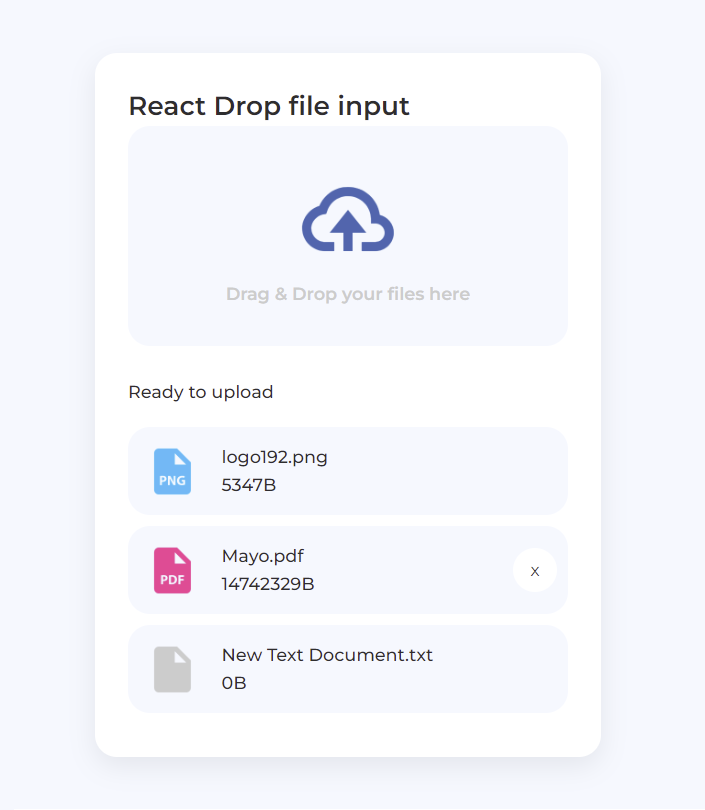
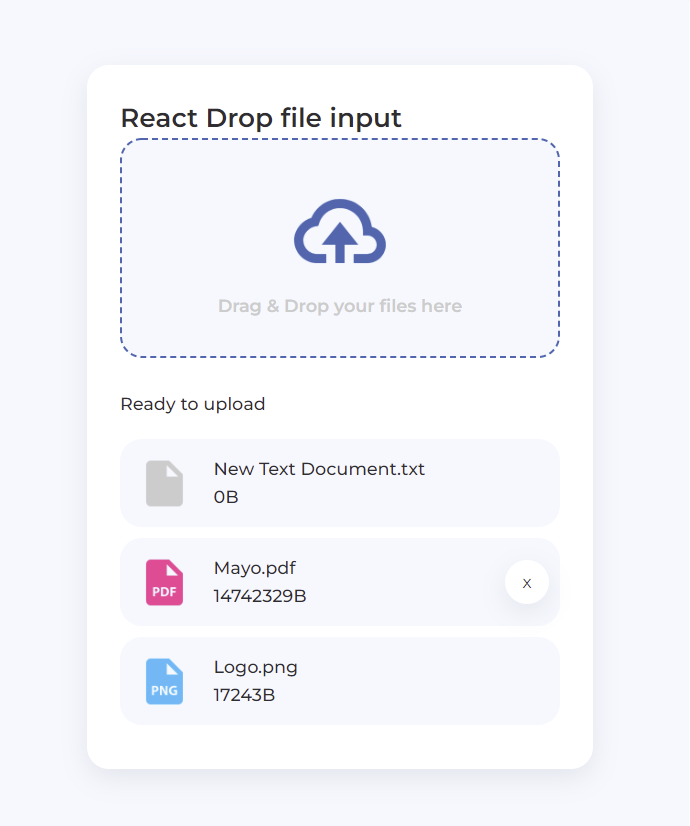
update CSS

diff --git a/src/App.css b/src/App.css
@@ -6,6 +6,8 @@
     --input-bg: #f5f8ff;
     --txt-color: #2f2d2f;
     --txt-second-color: #ccc;
+    --border-color: #4267b2;
+    --box-shadow: rgba(149, 157, 165, 0.2) 0px 8px 24px;
 }
 
 * {
@@ -16,20 +18,26 @@
 
 body {
     font-family: "Montserrat", sans-serif;
-    background-color: var(--body-bg);
-    color: var(--txt-color);
     font-weight: 400;
     line-height: 1.5;
+    background-color: var(--body-bg);
+    color: var(--txt-color);
+
     display: flex;
-    align-items: flex-start;
     justify-content: center;
-    height: 100vh;
     padding-top: 100px;
+
+    height: 100vh;
 }
 
 .box {
     background-color: var(--box-bg);
     padding: 30px;
     border-radius: 20px;
-    box-shadow: rgba(149, 157, 165, 0.2) 0px 8px 24px;
+    box-shadow: var(--box-shadow);
+}
+
+.header {
+    margin-bottom: 30px;
+    text-align: center;
 }
